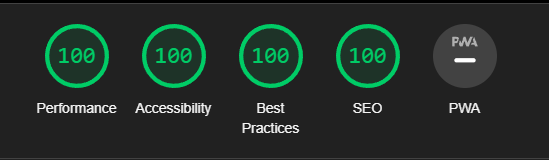
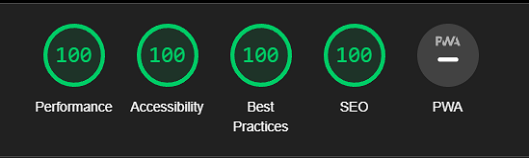
change 1 testing img and finish Lighthouse section

diff --git a/README.md b/README.md
@@ -278,3 +278,31 @@ Results of the test :
 | 5        | Yes    | Yes    | Yes    | Yes    | Yes    |
 | 6        | Yes    | Yes    | Yes    | Yes    | Yes    |
 | 7        | Yes    | Yes    | Yes    | Yes    | Yes    |
+
+---
+
+## Google Chrome Lighthouse
+
+1. Main Page
+
+![Google Chrome Lighthouse result for index.html](assets/images/testing/index-lighthouse.png)
+
+2. Portfolio
+
+![Google Chrome Lighthouse result for portfolio.html](assets/images/testing/portfolio-lighthouse.png)
+
+## HTML Validator
+
+1. index.html
+
+![index.html validated by HTML Validator](assets/images/testing/html-validated.png)
+
+> Warnings regarding using a forward slash with a void (single tag) elements.
+
+2. portfolio.html
+
+![portfolio.html validated by HTML Validator](assets/images/testing/portfolio-validated.png)
+
+## CSS Validator
+
+![Css validated by CSS Validator](assets/images/testing/css-validated.png)
